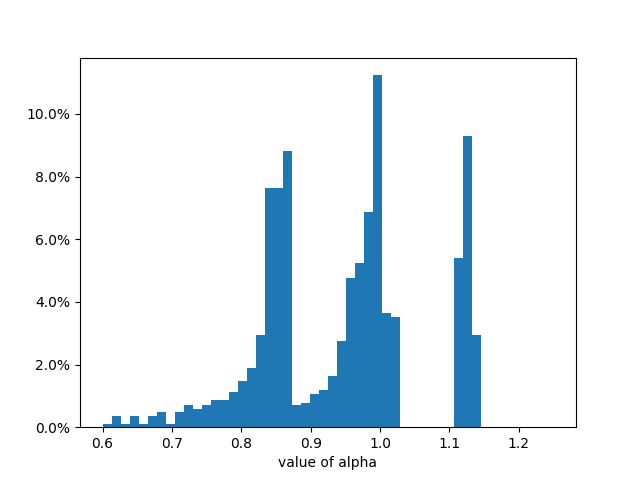
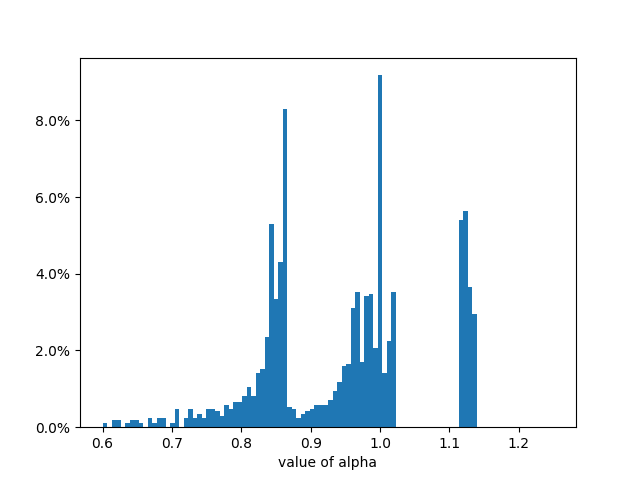
update

diff --git a/Ex3_square_harmonic_adaptive/check_dist_n4.py b/Ex3_square_harmonic_adaptive/check_dist_n4.py
@@ -5,8 +5,8 @@
 # f=exp(-2000*((x-0.5)**2+(y-0.5)**2))
 #
 # In this example, we would like to evaluate the solution at center of small squares.
-# n=2, N=100
-# Check the distribution of alpha when x 1/3\leq x \leq 2/3 at bottom
+# n=4, N=100
+# Check the distribution of alpha when x 2/3\leq x \leq 7/9 y \leq -2/9 at bottom
 import matplotlib.pyplot as plt
 import matplotlib.cm as cm
 from firedrake.petsc import PETSc
@@ -52,7 +52,7 @@ alpha_list,c_list,xl_list,pt_xlist,pt_ylist=get_alpha(uh,line_list,dy_list,N,l)[
 
 sub_alpha=[]
 for i in range(len(pt_xlist)):
-   if pt_xlist[i]<=2./3. and pt_xlist[i]>=1./3.:
+   if pt_xlist[i]>=2./3. and pt_xlist[i]<=7./9. and pt_ylist[i]<=-2./9.:
       sub_alpha.append(alpha_list[i])
 
 
